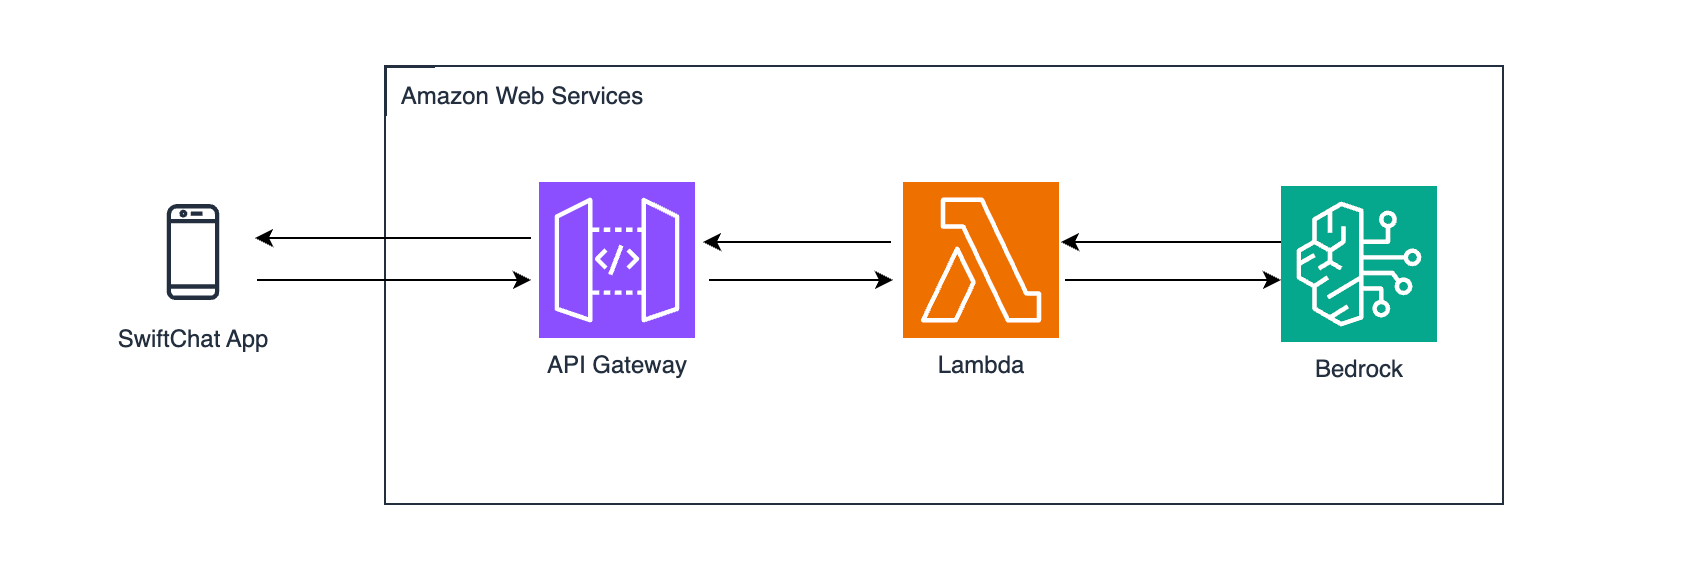
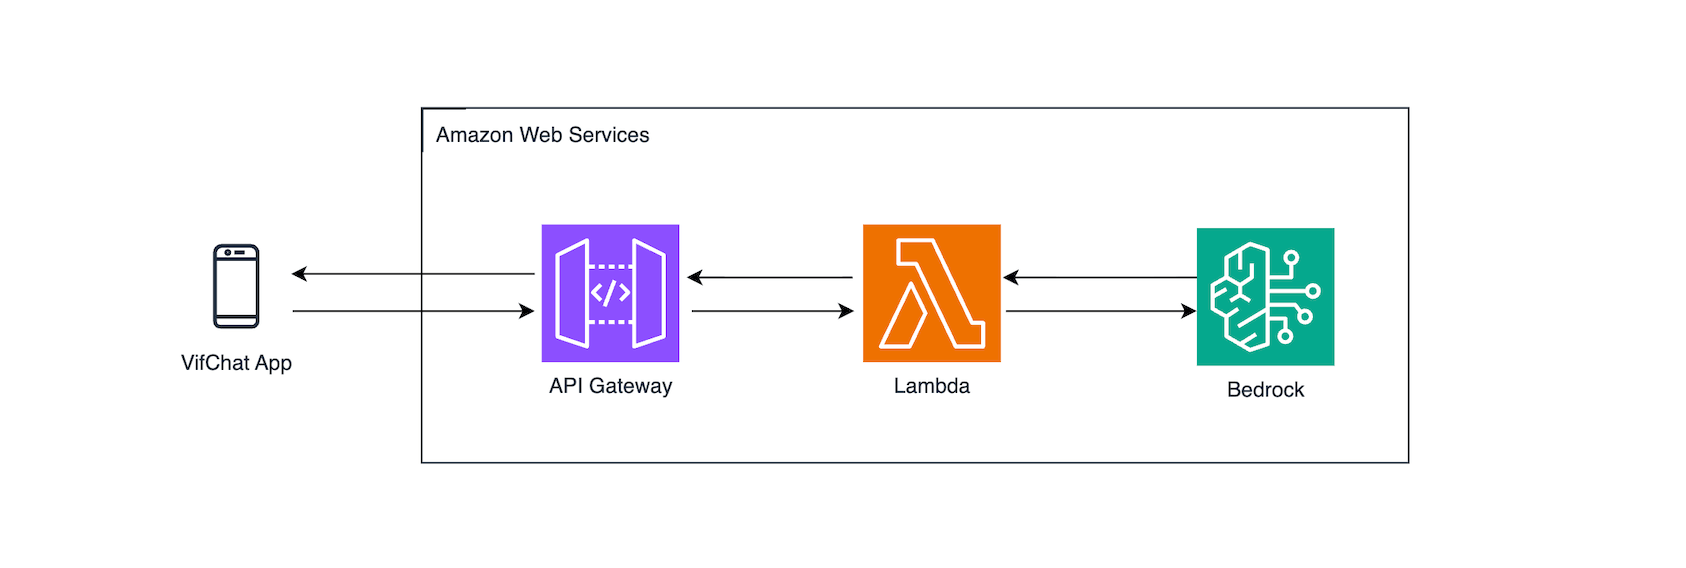
chore: rename CloudFormation stack and iOS workspace to VifChat (#102)

diff --git a/README.md b/README.md
@@ -97,18 +97,18 @@ We use **API Gateway** combined with **AWS Lambda** to enable streaming response
 curl -fsSL https://raw.githubusercontent.com/aws-samples/sample-vif-chat-app/main/server/install.sh | bash
 ```
 
-By default this deploys to **the account of your current AWS profile**, in the region from `$AWS_REGION` or your `aws configure` default (fallback: `us-east-1`), with stack name `SwiftChat`. Wait about 3-4 minutes to see your **API URL**, **API Key** obtain link, and a scannable QR code for auto-configuring the app.
+By default this deploys to **the account of your current AWS profile**, in the region from `$AWS_REGION` or your `aws configure` default (fallback: `us-east-1`), with stack name `VifChat`. Wait about 3-4 minutes to see your **API URL**, **API Key** obtain link, and a scannable QR code for auto-configuring the app.
 
 To target a different account, region, or stack:
 
 ```bash
-./install.sh --region us-west-2 --stack MySwiftChat --profile myprofile
+./install.sh --region us-west-2 --stack MyVifChat --profile myprofile
 ```
 
 | Flag | Purpose | Default |
 |---|---|---|
 | `--region` | AWS region to deploy into | `$AWS_REGION` or `us-east-1` |
-| `--stack` | CloudFormation stack name | `SwiftChat` |
+| `--stack` | CloudFormation stack name | `VifChat` |
 | `--profile` | AWS CLI profile to use | current default profile |
 
 ### Step 2: Open the App and setup with API URL and API Key
@@ -409,7 +409,7 @@ npm run ios
 ### Build for macOS
 
 1. Execute `npm start`.
-2. Double click `ios/SwiftChat.xcworkspace` to open the project in your Xcode.
+2. Double click `ios/VifChat.xcworkspace` to open the project in your Xcode.
 3. Change the build destination to `My Mac (Mac Catalyst)` then click the ▶ Run button.
 
 ## API Reference

diff --git a/README_CN.md b/README_CN.md
@@ -93,18 +93,18 @@ VifChat 是一款快速响应的 AI 助手，采用 [React Native](https://react
 curl -fsSL https://raw.githubusercontent.com/aws-samples/sample-vif-chat-app/main/server/install.sh | bash
 ```
 
-默认部署到**当前 AWS profile 的账户**，region 取 `$AWS_REGION` 或 `aws configure` 的默认值（都未设置则为 `us-east-1`），堆栈名为 `SwiftChat`。等待约 3-4 分钟，您会看到 **API URL**、**API Key** 获取链接，以及可用手机扫描自动配置的二维码。
+默认部署到**当前 AWS profile 的账户**，region 取 `$AWS_REGION` 或 `aws configure` 的默认值（都未设置则为 `us-east-1`），堆栈名为 `VifChat`。等待约 3-4 分钟，您会看到 **API URL**、**API Key** 获取链接，以及可用手机扫描自动配置的二维码。
 
 需要指定其他目标时：
 
 ```bash
-./install.sh --region us-west-2 --stack MySwiftChat --profile myprofile
+./install.sh --region us-west-2 --stack MyVifChat --profile myprofile
 ```
 
 | 参数 | 作用 | 默认值 |
 |---|---|---|
 | `--region` | 部署到的 AWS region | `$AWS_REGION` 或 `us-east-1` |
-| `--stack` | CloudFormation 堆栈名 | `SwiftChat` |
+| `--stack` | CloudFormation 堆栈名 | `VifChat` |
 | `--profile` | 使用的 AWS CLI profile | 当前默认 profile |
 
 ### 步骤 2：打开应用并使用 API URL 和 API Key 进行设置
@@ -395,7 +395,7 @@ npm run ios
 ### 构建 macOS
 
 1. 执行 `npm start`。
-2. 双击 `ios/SwiftChat.xcworkspace` 在 Xcode 中打开项目。
+2. 双击 `ios/VifChat.xcworkspace` 在 Xcode 中打开项目。
 3. 将构建目标更改为 `My Mac (Mac Catalyst)` 然后点击 ▶ 运行按钮。
 
 ## API 参考
